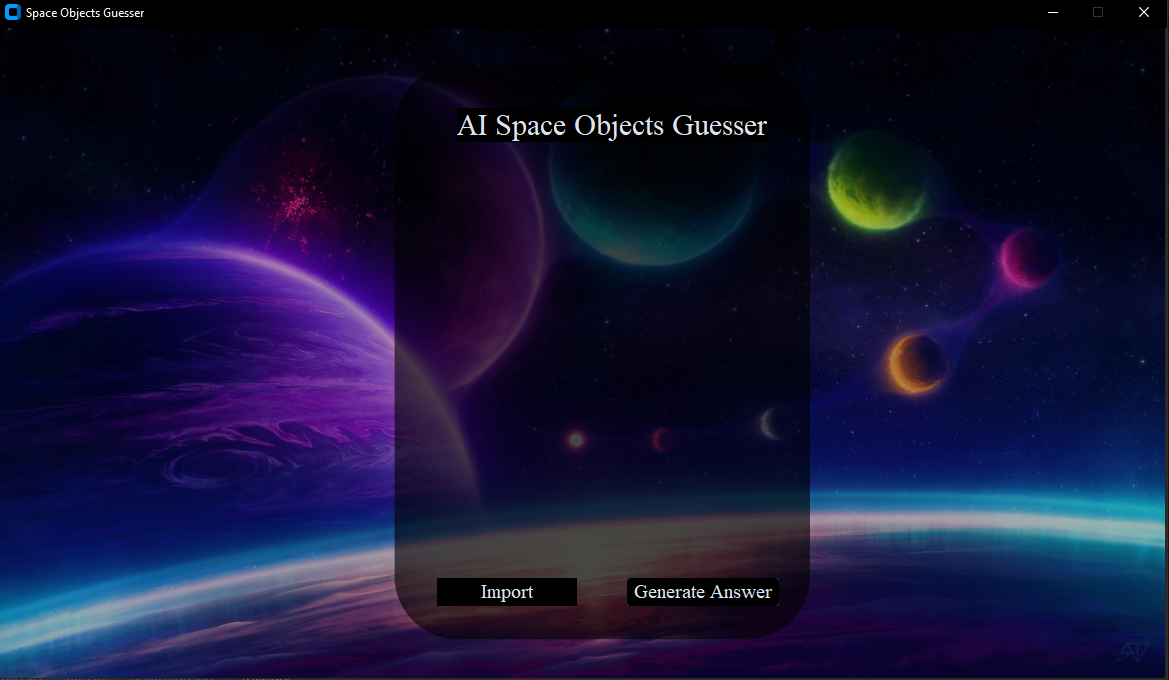
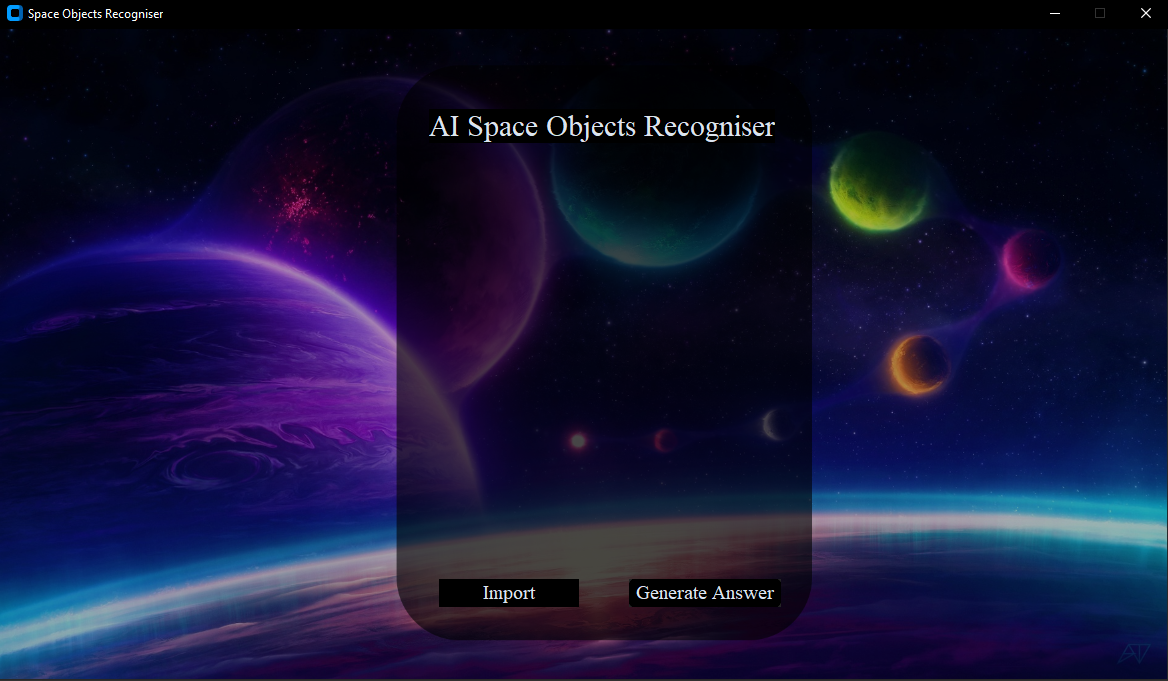
Fixed titles!

diff --git a/AI.py b/AI.py
@@ -139,13 +139,13 @@ if __name__=='__main__':
     app = ctk.CTk()
     app.resizable(False, False)
     app.geometry("1170x651")  # 1300x600
-    app.title("Space Objects Guesser")
+    app.title("Space Objects Recogniser")
 
     backgroundImage = tk.PhotoImage(file="background.png")
     background = tk.Label(app, image=backgroundImage)
     background.place(x=0, y=0, relwidth=1, relheight=1)
 
-    ctk.CTkLabel(master=app, text="AI Space Objects Guesser", font=("Times New Roman", 30), fg_color="black").place(x=460,
+    ctk.CTkLabel(master=app, text="AI Space Objects Recogniser", font=("Times New Roman", 30), fg_color="black").place(x=430,
                                                                                                             y=80)
 
     ctk.CTkButton(master=app, text="Import", bg_color="black", fg_color="black", font=("Times New Roman", 20),

diff --git a/README.md b/README.md
@@ -1,4 +1,4 @@
 # SchoolAIProject
-Space object guesser!
-The AI can guess Planets,Asteroids,Stars,Nebulas,Supernovas and Galaxies!
+Space object recogniser!
+The AI can recgosnie only Planets,Asteroids,Stars,Nebulas,Supernovas and Galaxies!
 ![How the program looks like!](/readmeImage.png)
